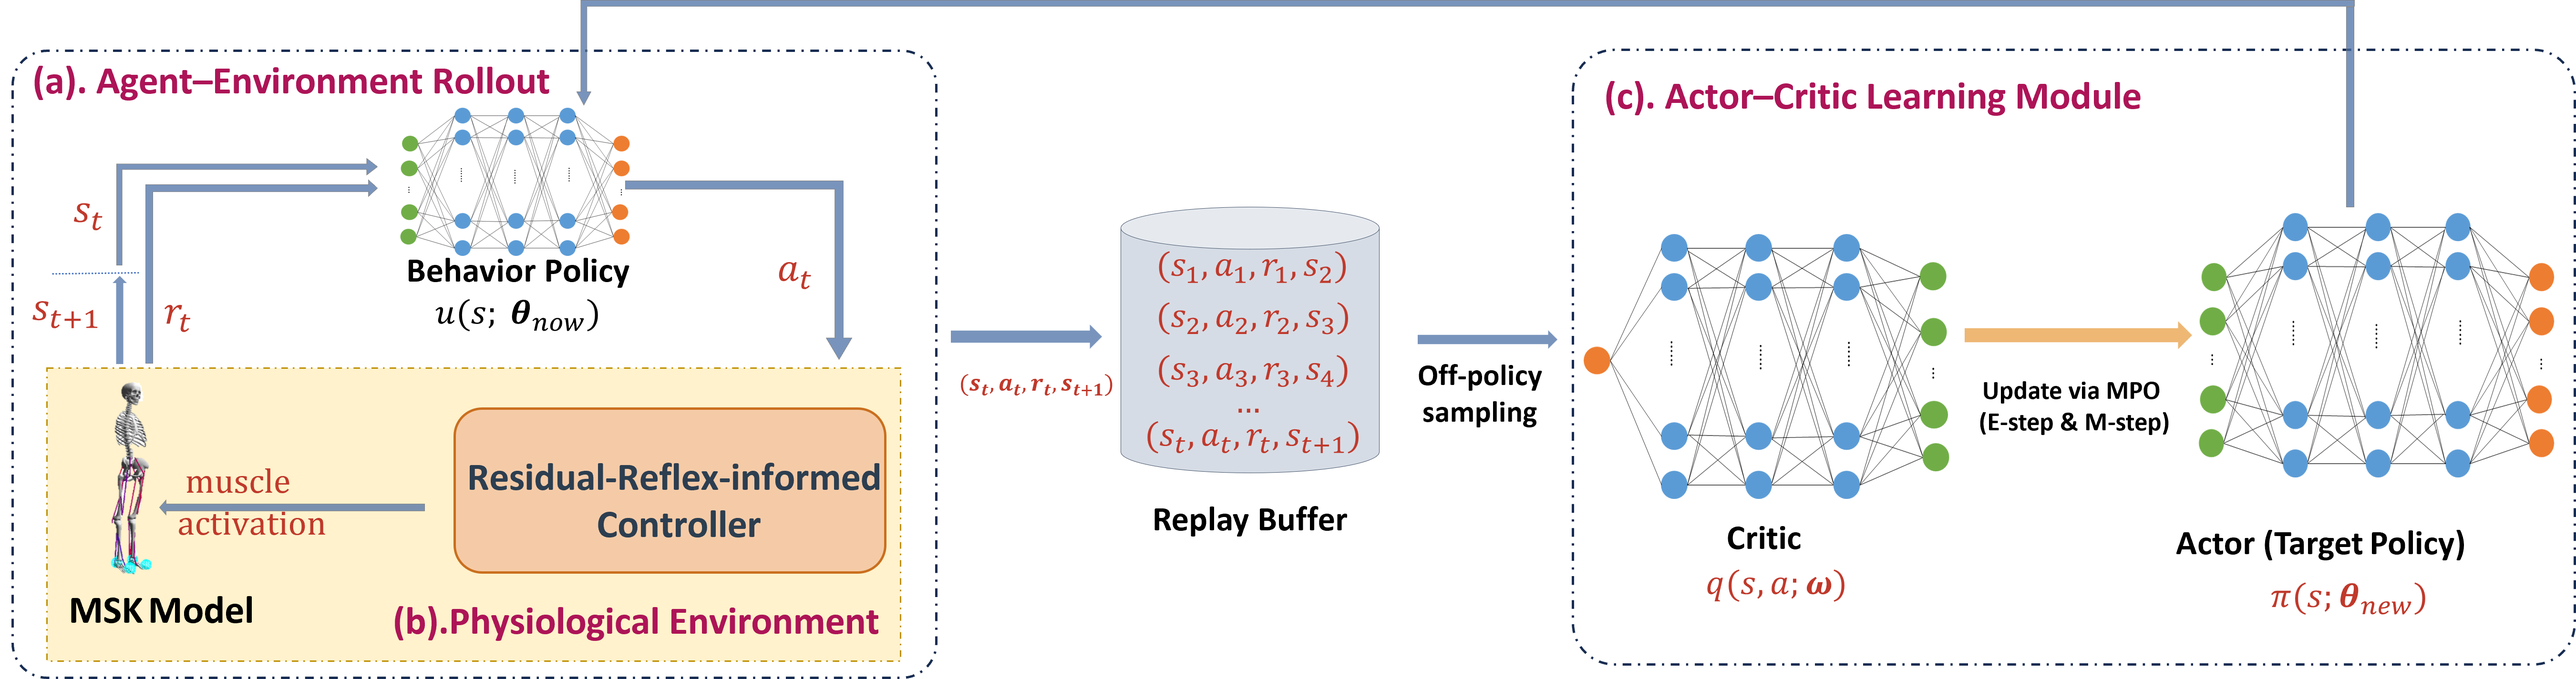
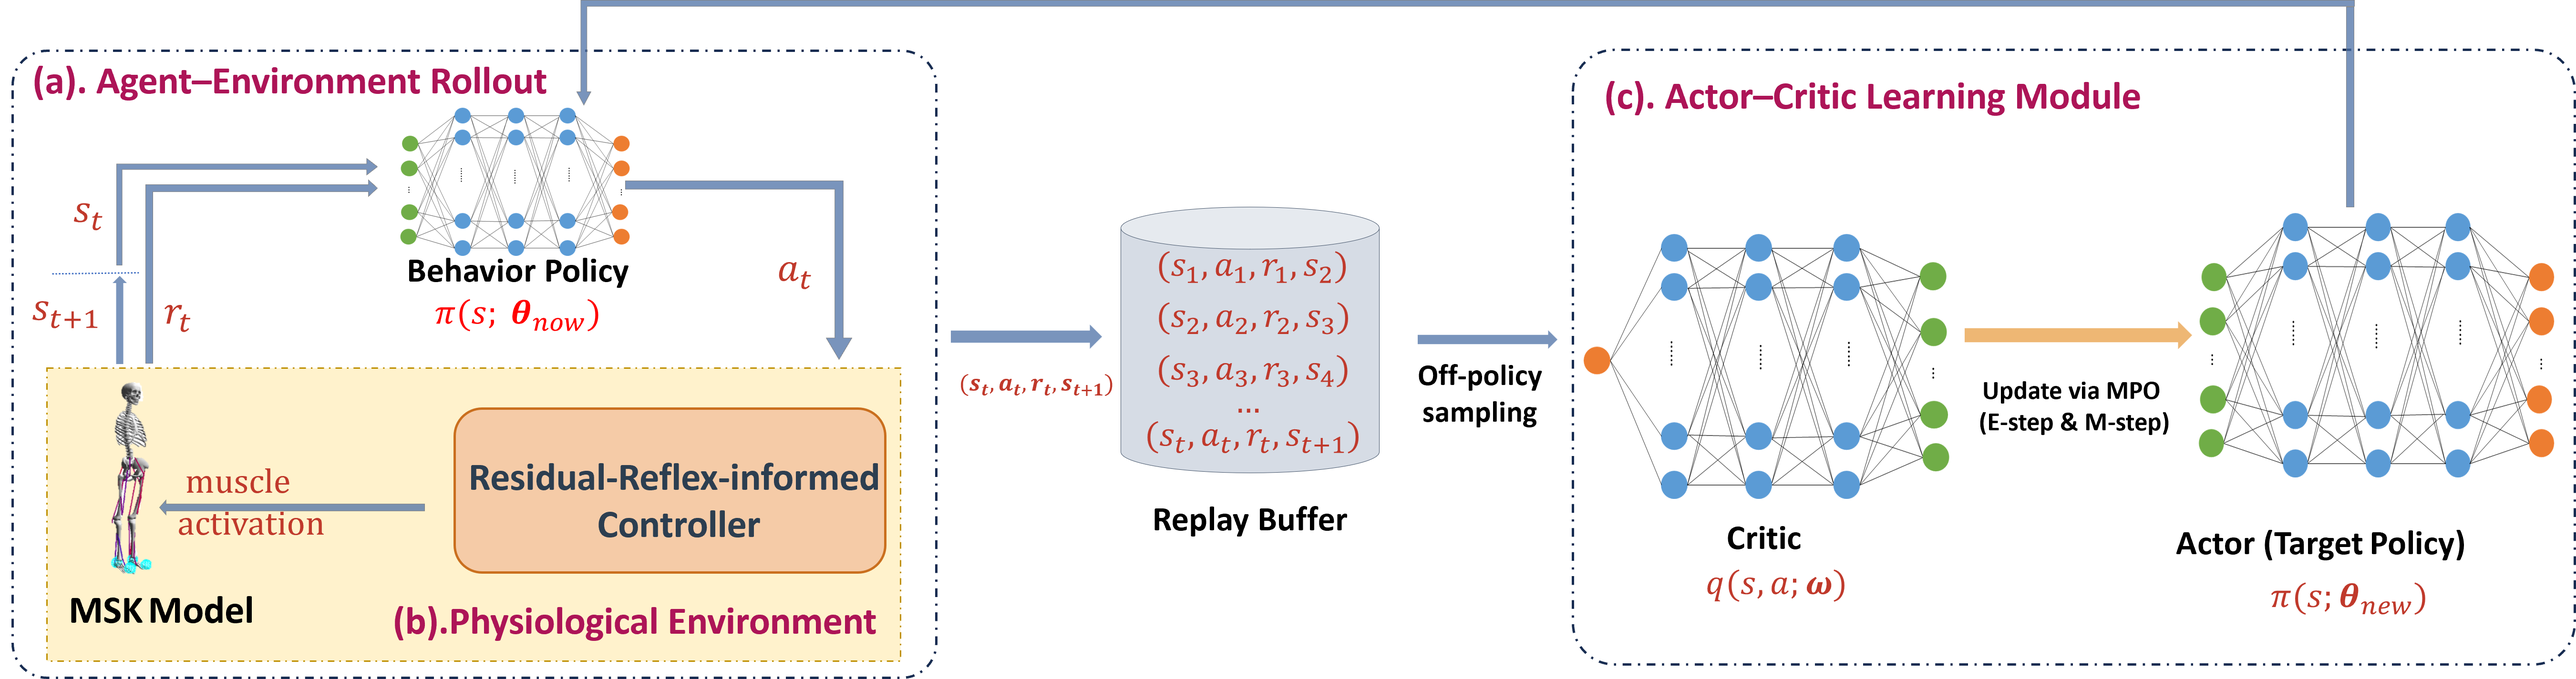
Align framework notation and introduction citations

diff --git a/main.tex b/main.tex
@@ -75,15 +75,16 @@ nonlinear, overactuated, and highly redundant, so many muscle-excitation
 patterns can complete a walking task while producing very different gait
 quality.
 
-Predictive simulation, trajectory optimization, and optimal control provide one
-major route for musculoskeletal gait generation. These methods can generate
-dynamically feasible motions under physical constraints and have provided
-important insight into gait mechanics, energetic objectives, and pathological
-walking
-\cite{anderson2001,ackermann2010,geijtenbeek2019,falisse2019,dembia2020,ezati2019,degroote2021,wang2010,wang2012,song2018}.
-Software frameworks and direct-collocation formulations have made predictive
-musculoskeletal simulation increasingly practical, but the resulting problem is
-still usually solved as an offline optimization over complete trajectories.
+Predictive simulation \cite{anderson2001,ackermann2010,geijtenbeek2019},
+trajectory optimization and direct collocation \cite{falisse2019}, and
+musculoskeletal optimal control \cite{dembia2020} provide one major route for
+musculoskeletal gait generation. These methods can generate dynamically feasible
+motions under physical constraints and have provided important insight into gait
+mechanics, energetic objectives, and pathological walking
+\cite{degroote2021,wang2010,wang2012,song2018}. Software frameworks have made
+predictive musculoskeletal simulation increasingly practical
+\cite{geijtenbeek2019,dembia2020}, but the resulting problem is still usually
+solved as an offline optimization over complete trajectories.
 Such approaches often require carefully designed cost functions and substantial
 computation, and the optimized motion does not necessarily become a feedback
 policy that can respond online to perturbations, muscle-capacity changes, or
@@ -339,17 +340,18 @@ $(\mathbf{s}_t,\mathbf{a}_t,r_t,\mathbf{s}_{t+1})$ shown in Fig.~\ref{framwork}.
 
 The collected transitions are stored in the replay buffer $\mathcal{D}$ and used
 to train the critic and target policy with Maximum a Posteriori Policy
-Optimization (MPO) \cite{mpo2018}. The critic estimates the state--action value
-$q(\mathbf{s}_t,\mathbf{a}_t;\omega)$, where $\omega$ denotes critic parameters.
-The actor parameterizes a Gaussian policy $\pi(\mathbf{s}_t;\theta)$ that maps
-the observation to the mean and standard deviation of the action distribution.
-MPO updates the actor to the new policy parameters
+Optimization (MPO) \cite{mpo2018}. The critic has the form
+$q(\mathbf{s},\mathbf{a};\omega)$ shown in Fig.~\ref{framwork}(c), where
+$\omega$ denotes critic parameters; for each replayed transition, it is evaluated
+at the sampled pair $(\mathbf{s}_t,\mathbf{a}_t)$. The rollout actor is the
+Gaussian policy $\pi(\mathbf{s};\theta_{\mathrm{now}})$ shown in module (a); it
+maps an observation to the mean and standard deviation of a residual-action
+distribution. MPO updates the actor to the new policy parameters
 $\theta_{\mathrm{new}}$, corresponding to the policy block
-$\pi(\mathbf{s};\theta_{\mathrm{new}})$ in Fig.~\ref{framwork}(c). During
-training, actions are sampled from this stochastic policy for exploration;
-during deterministic evaluation, the policy mean is used. MPO constrains the
-policy update with a KL bound, which limits abrupt policy changes during
-continuous-control learning.
+$\pi(\mathbf{s};\theta_{\mathrm{new}})$ in module (c). During training, actions
+are sampled from the stochastic policy for exploration; during deterministic
+evaluation, the policy mean is used. MPO constrains the policy update with a KL
+bound, which limits abrupt policy changes during continuous-control learning.
 
 This learning loop is used to train the residual-reflex policy over the
 four-dimensional reflex-parameter action space. The baseline controllers used
